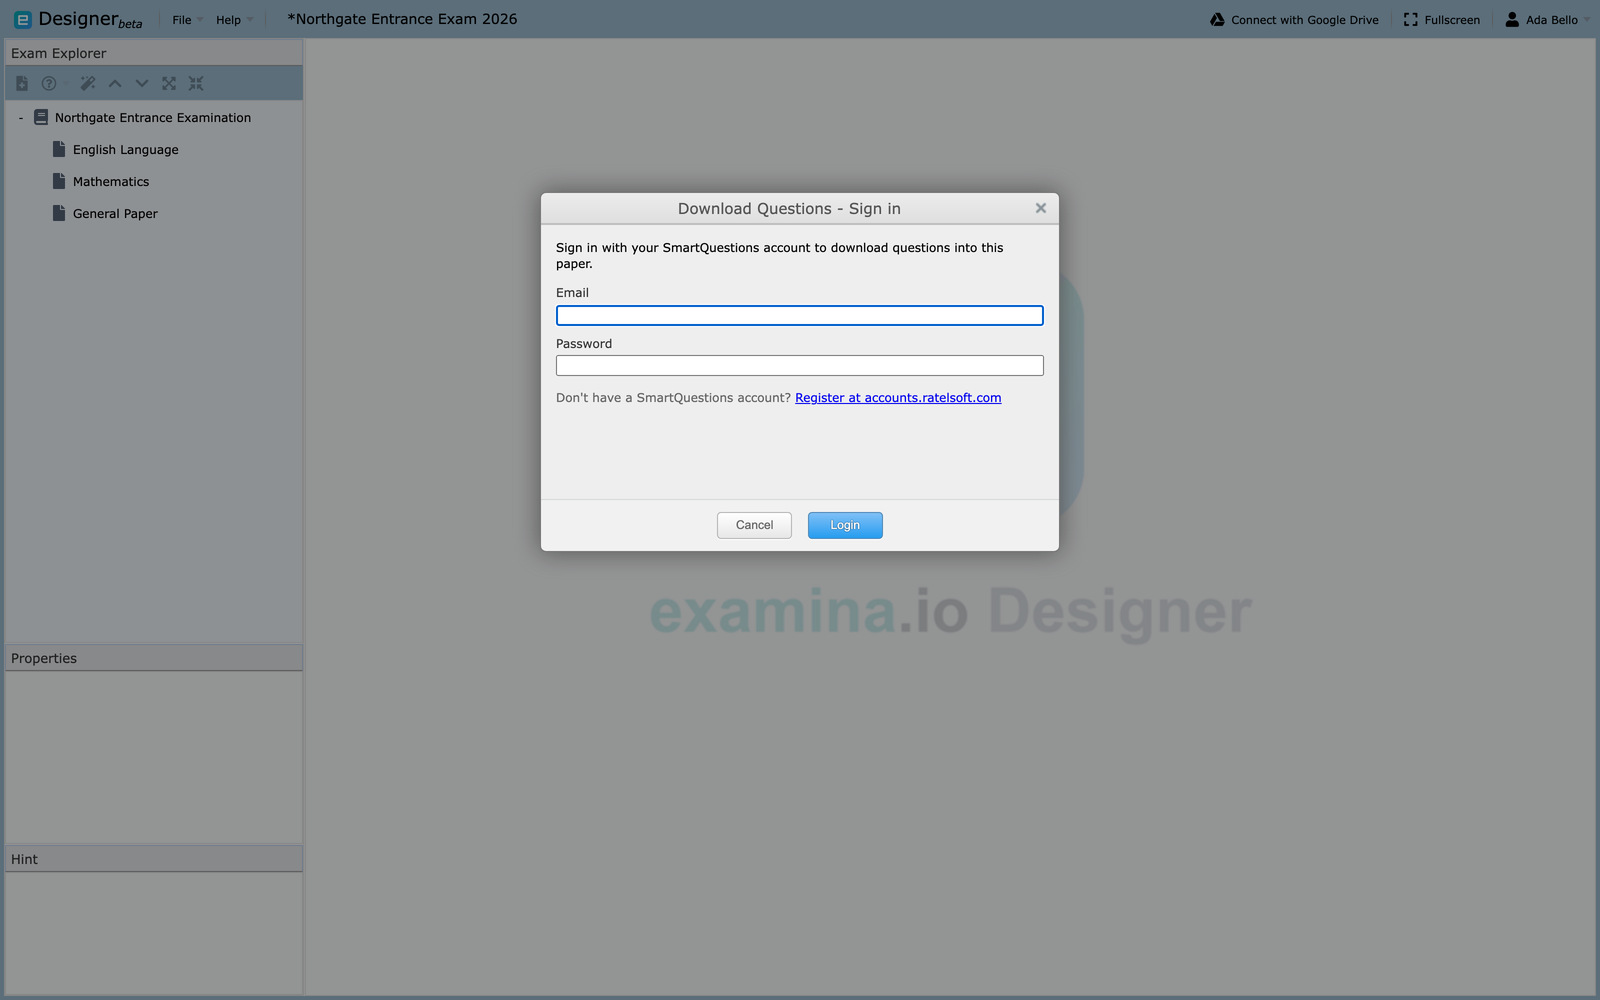
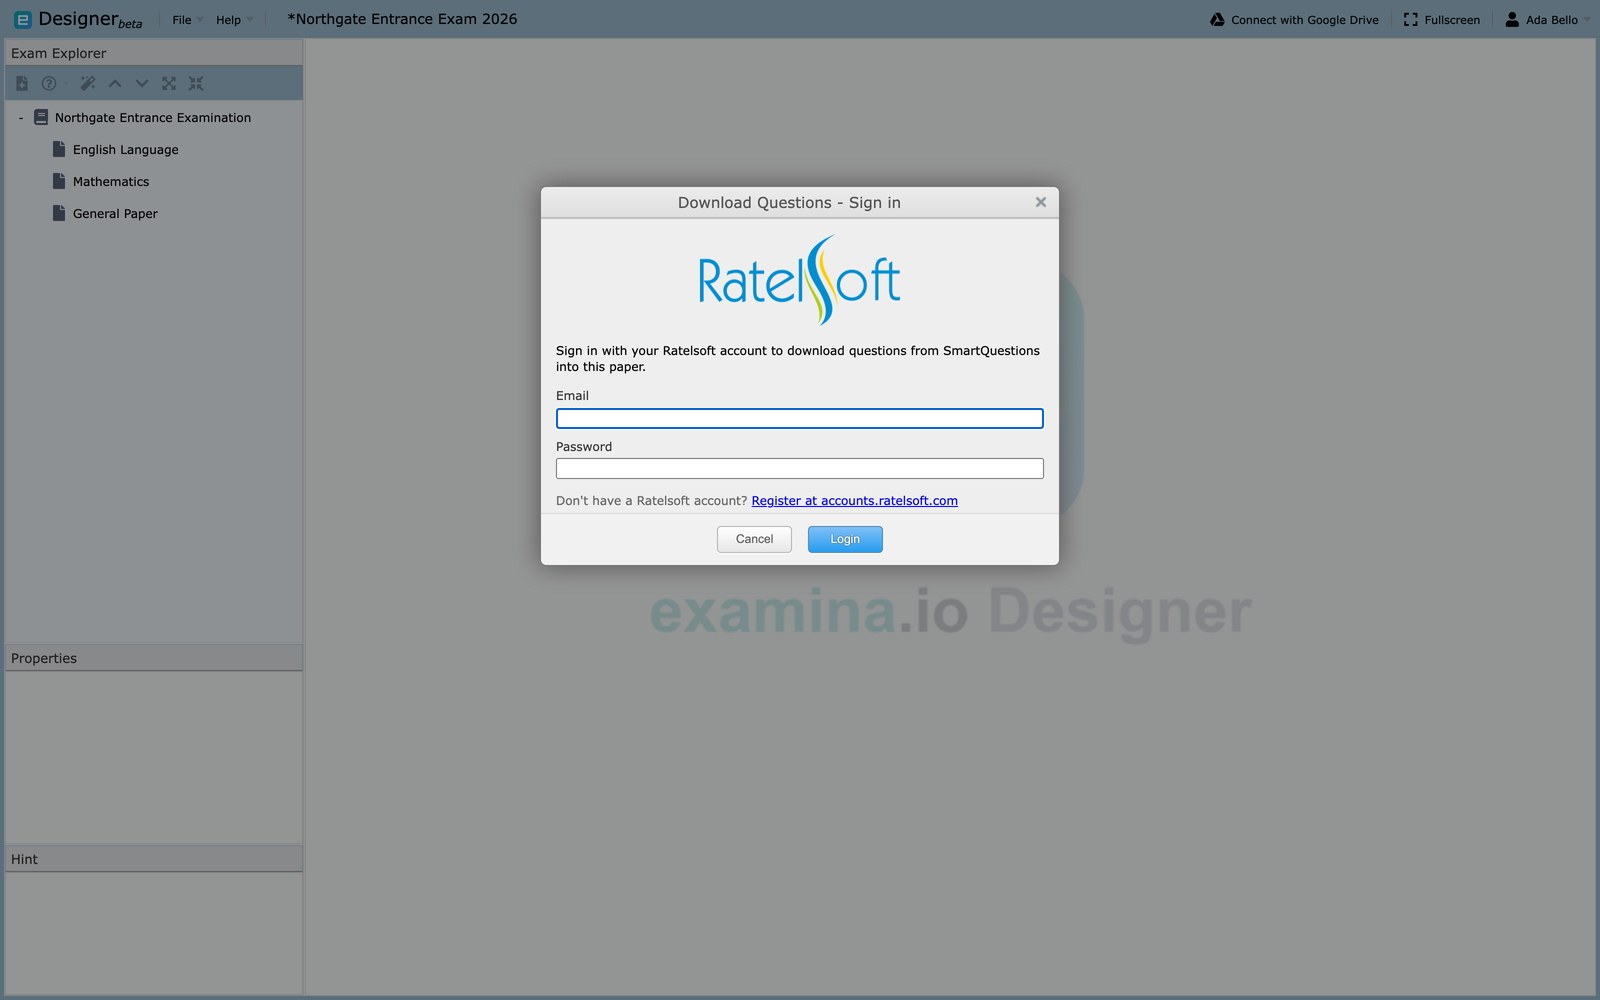
Call it a Ratelsoft account, because that is what it is (#17)
The Download Questions page asked the reader to sign in with a
"SmartQuestions account". There is no such thing. SmartQuestions is the
question bank the questions come from; the credentials are a Ratelsoft
account, which is why the link in the dialog goes to accounts.ratelsoft.com.

Someone hunting for a SmartQuestions account to register would not find one.

The screenshot is retaken from the running application, which now says the
same thing and carries the Ratelsoft mark so it is clear before reading a
word whose account is being asked for.

Changed region(s): [[0.3438, 0.186, 0.6562, 0.465], [0.3438, 0.496, 0.6562, 0.589]]

diff --git a/docs/user-guides/designer/import-content.md b/docs/user-guides/designer/import-content.md
@@ -118,14 +118,14 @@ set scores and sections, and save the project.
 **Download Questions** is a separate feature, not part of the import wizard.
 Right-click a paper and choose it to pull questions from SmartQuestions.
 
-1. Sign in with your SmartQuestions account.
+1. Sign in with your Ratelsoft account.
 2. Choose a scheme, then up to five subjects.
 3. Set how many questions to take from each subject, between 1 and 100.
 4. Choose sequential or randomized order, then download.
 
 The sign-in is not stored. Designer asks for it again in a new session.
 
-![The Download Questions dialog asking for SmartQuestions sign-in](../../assets/images/designer/import-download-questions.png)
+![The Download Questions dialog asking for a Ratelsoft account sign-in](../../assets/images/designer/import-download-questions.png)
 
 To copy content inside the open project, see [Reuse project
 content](importing-questions.md).
